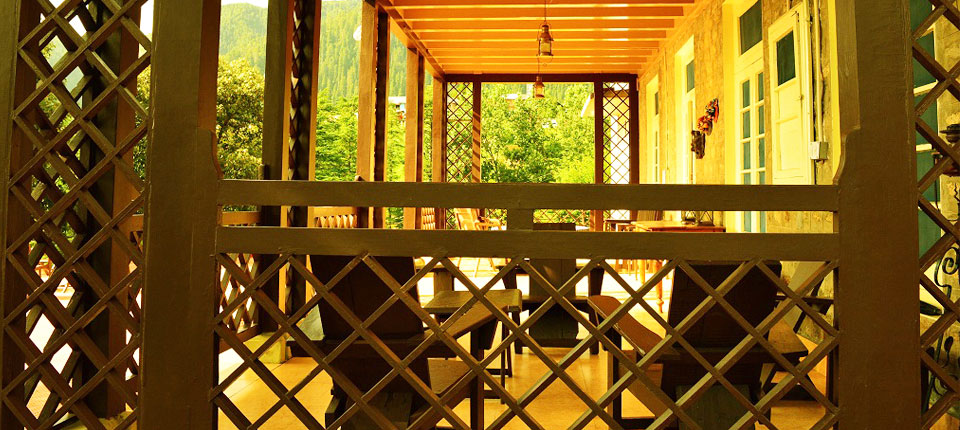
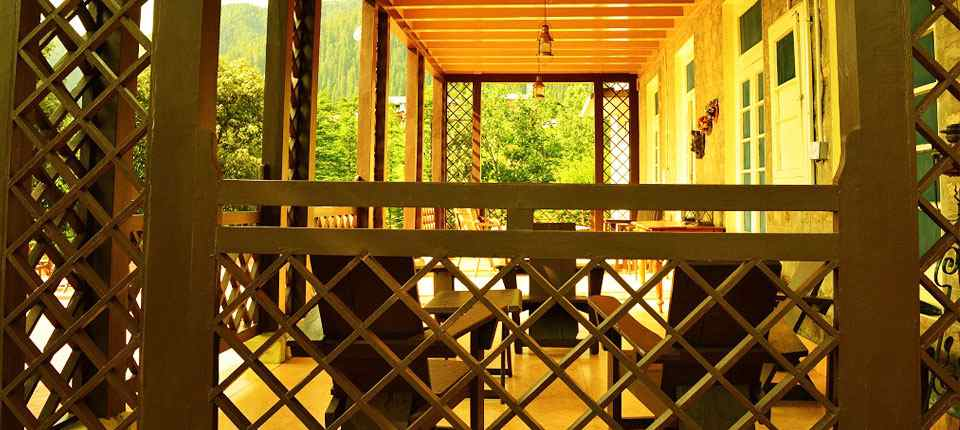
Khajjiar images compressed + minor changes

diff --git a/Khajjiar-Dalhousie.html b/Khajjiar-Dalhousie.html
@@ -278,7 +278,7 @@ We stopped on way at one of the dhabas for lunch where I embarrassed Barney by m
                     <p>It had started drizzling slightly. We had Maggie at one of the stalls outside before going back to the hotel. Since I needed to shop for souvenirs for my friends, I dragged Barney to the market with me. He waited while I haggled for the prices for typical wooden jewellery boxes and coasters available at all possible mall roads at Hill stations in India. Btw, Barney dislikes shopping to a great extent! :p We grabbed a quick bite at Café Dalhousie, a small snack corner. The walk back to the hotel was a unique one. On one hand the view of the hills from the road was lovely, which seemed like thousands of starts studded inside the big mountains, on the other, our talks went a little melancholic since Barney spoke something about his past. You know how things get when it goes to Ex's, and being posessive isn't the best trait for one to have. However, our endless conversations continued over the buffet dinner at the hotel and in bed before we went off to sleep. All at peace, in the end :)</p><br>
             
                <p><b>Day-4</b></p>
-            <img class="right-align" src="images/Khajjiar_Dalhousie_images/Dainkund%20Treak.png">
+            <img class="right-align" src="images/Khajjiar_Dalhousie_images/Dainkund%20Treak.jpg">
 
 <p>Based on the itinerary, we planned on visiting two places – Dainkund Peak and Kalatop. We hired a cab. Dainkund peak is around 10 Km from Dalhousie. There is around 45 minutes of trek from the point where cabs stop to the top – where the temple is situated. We walked along the narrow route amidst the fog and the clouds. It was getting chillier with every passing minute. We stopped at two view points midway and sat down to enjoy the view of Dalhousie from the top, which was breathtakingly beautiful. The small temple at the top was peaceful and serene and saw many devotees coming every day, especially during the season. We sat at one of stalls overlooking an awesome view and had Magge and chai – the combination of these two especially in chilly weather in the hills gives one a different level of satisfaction altogether!</p><br>
             
@@ -299,18 +299,14 @@ We stopped on way at one of the dhabas for lunch where I embarrassed Barney by m
                     
                 <ul>
                     <li class="vertical-image-list">
-                        <img class="left-align" src="images/Khajjiar_Dalhousie_images/Khajjiar%20Meadow.jpg"> <h5 class="attraction-sub-heading"><b>Khajjiar Lake and meadow</b></h5>For people who have never visited this place, the meadow is going to be an instant favourite! It’s an amazingly beautiful picturesque enclosure of a huge ground carpeted with lush green grass, surrounded by think green Deodar forest in all directions. Khajjiar Lake is right in the middle of the meadow with a wooden bridge constructed across the lake. Since the lake hasn’t been maintained properly, it looks more like a moor. However, the scenic beauty of the entire place will make you fall in love with it right away!<br>
+                        <img class="left-align" src="images/Khajjiar_Dalhousie_images/Khajjiar%20Meadow.jpg"> <h5 class="attraction-sub-heading"><b>Khajjiar Lake and meadow</b></h5>For people who have never visited this place, the meadow is going to be an instant favourite! It’s an amazingly beautiful picturesque enclosure of a huge ground carpeted with lush green grass, surrounded by think green Deodar forest in all directions. Khajjiar Lake is right in the middle of the meadow with a wooden bridge constructed across the lake. The place is an enchanting beauty!<br>
                         
                     </li><li class="vertical-image-list">
-                        <img class="left-align" src="images/Khajjiar_Dalhousie_images/Khajjiar%20Meadow%20Self.jpg"><h5 class="attraction-sub-heading"><b>Adventure activities at Khajjiar</b></h5>Visitors can enjoy a range of activities at Khajjiar mostly around the meadow itself. Horse riding, Para-gliding and Zorbing are the most common ones. There are many small eating joints across the area serving typical hill station food – Maggie, eggs and chai. However, many small restaurants serve proper food. There are small shops selling Tibetan and Himachal Pradesh specific handicrafts around the same place. People enjoy going for treks and nature walks around the meadow area.
+                        <img class="left-align" src="images/Khajjiar_Dalhousie_images/Khajjiar%20Meadow%20Self.jpg"><h5 class="attraction-sub-heading"><b>Adventure activities at Khajjiar</b></h5>Activities in Khajjiar include Horse riding, Para-gliding and Zorbing are the most common ones. There are many small eating joints across the area serving typical hill station food – Maggie, eggs and chai. However, many small restaurants serve proper food. There are small shops selling Tibetan and Himachal Pradesh specific handicrafts around the same place. People enjoy going for treks and nature walks around the meadow area.
                     
                     </li><li class="vertical-image-list">
-                        <img class="left-align" src="images/Khajjiar_Dalhousie_images/Kwality%20Restaurant.png"> <h5 class="attraction-sub-heading"><b>Gandi Chowk Market</b></h5>
+                        <img class="left-align" src="images/Khajjiar_Dalhousie_images/Kwality%20Restaurant.jpg"> <h5 class="attraction-sub-heading"><b>Gandi Chowk Market</b></h5>
                    Mainly the mall road of Dalhousie, but popularly known as Gandhi Chowk market has many small shops ranging from the ones selling typical wooden goodies to the ones selling momos. There are many popular restaurants which were established around 40 years back still serving at the market – mainly Kwality Restaurant and the well-known Dalhousie Café, a small snacks corner. There are a few Tibetan stores too selling local handicrafts and lovely woollen items such has mittens and gloves.
-                    
-                    </li><li class="vertical-image-list">
-                        <img class="left-align" src="images/Ananthagiri_images/Haritha%20Property.jpg"><h5 class="attraction-sub-heading"><b>Haritha Valley Resort</b></h5> Haritha Valley Resort an Ananthagiri is the best option for people to stay or have meals during their visit to the place. It is owned and maintained by the Telangana State government. The resort has a decently spacious property with pocket friendly rates – both with respect to rooms and food. It also has a huge garden which offers lovely scenic views of the Ananthagiri hills.
-
     
                      </li><li class="vertical-image-list">
                         <img class="left-align" src="images/Khajjiar_Dalhousie_images/Boating%20point.jpg"><h5 class="attraction-sub-heading"><b>Chamera Lake</b></h5>Around 35 Km from Dalhousie, lies the Chamera Lake. It is an artificial lake built across Chamera Dam.  The place has its own charm owing to beautiful flower gardens located across the boundary of the lake and small kiosks at the entrance selling souvenirs and snacks. The Lake is mainly popular for its boating. The boat seats around 30-40 people in one go and covers the perimeter of the lake in around 20-30 minutes.
@@ -348,7 +344,7 @@ We stopped on way at one of the dhabas for lunch where I embarrassed Barney by m
                        </div>
                        
                        <div class="pin">
-                           <a href="images/Khajjiar_Dalhousie_images/Dainkund%20Treak.png" data-lightbox="roadtrip" data-title="Trek to the Dainkund peak top with narrow roads amidst lovely views"><img src="images/Khajjiar_Dalhousie_images/Dainkund%20Treak.png" id="pic4"></a>
+                           <a href="images/Khajjiar_Dalhousie_images/Dainkund%20Treak.jpg" data-lightbox="roadtrip" data-title="Trek to the Dainkund peak top with narrow roads amidst lovely views"><img src="images/Khajjiar_Dalhousie_images/Dainkund%20Treak.jpg" id="pic4"></a>
                            <p>Trek to the Dainkund peak top with narrow roads amidst lovely views</p>
                        </div>
                        
@@ -385,7 +381,7 @@ We stopped on way at one of the dhabas for lunch where I embarrassed Barney by m
                        </div>
                        
                        <div class="pin">
-                           <a href="images/Khajjiar_Dalhousie_images/Kwality%20Restaurant.png" data-lightbox="roadtrip" data-title="The famous Kwality Restaurant at Gandi Chowk Market"><img src="images/Khajjiar_Dalhousie_images/Kwality%20Restaurant.png"></a>
+                           <a href="images/Khajjiar_Dalhousie_images/Kwality%20Restaurant.jpg" data-lightbox="roadtrip" data-title="The famous Kwality Restaurant at Gandi Chowk Market"><img src="images/Khajjiar_Dalhousie_images/Kwality%20Restaurant.jpg"></a>
                            <p>The famous Kwality Restaurant at Gandi Chowk Market</p>
                        </div>
                        
@@ -420,7 +416,7 @@ We stopped on way at one of the dhabas for lunch where I embarrassed Barney by m
                     
                     <li>
                         <div class="col-md-4">
-                            <img src="images/Khajjiar_Dalhousie_images/khajjiar_deodaranor.png" class="icon-left-align">
+                            <img src="images/Khajjiar_Dalhousie_images/khajjiar_deodaranor.jpg" class="icon-left-align">
 
                         </div>
                         
@@ -437,7 +433,7 @@ We stopped on way at one of the dhabas for lunch where I embarrassed Barney by m
                         <li>
                         <div class="col-md-4">
 
-                            <img src="images/Khajjiar_Dalhousie_images/dalhousie_grandview.png" class="icon-left-align">
+                            <img src="images/Khajjiar_Dalhousie_images/dalhousie_grandview.jpg" class="icon-left-align">
                         </div>
                         
                         <div class="col-md-8">
